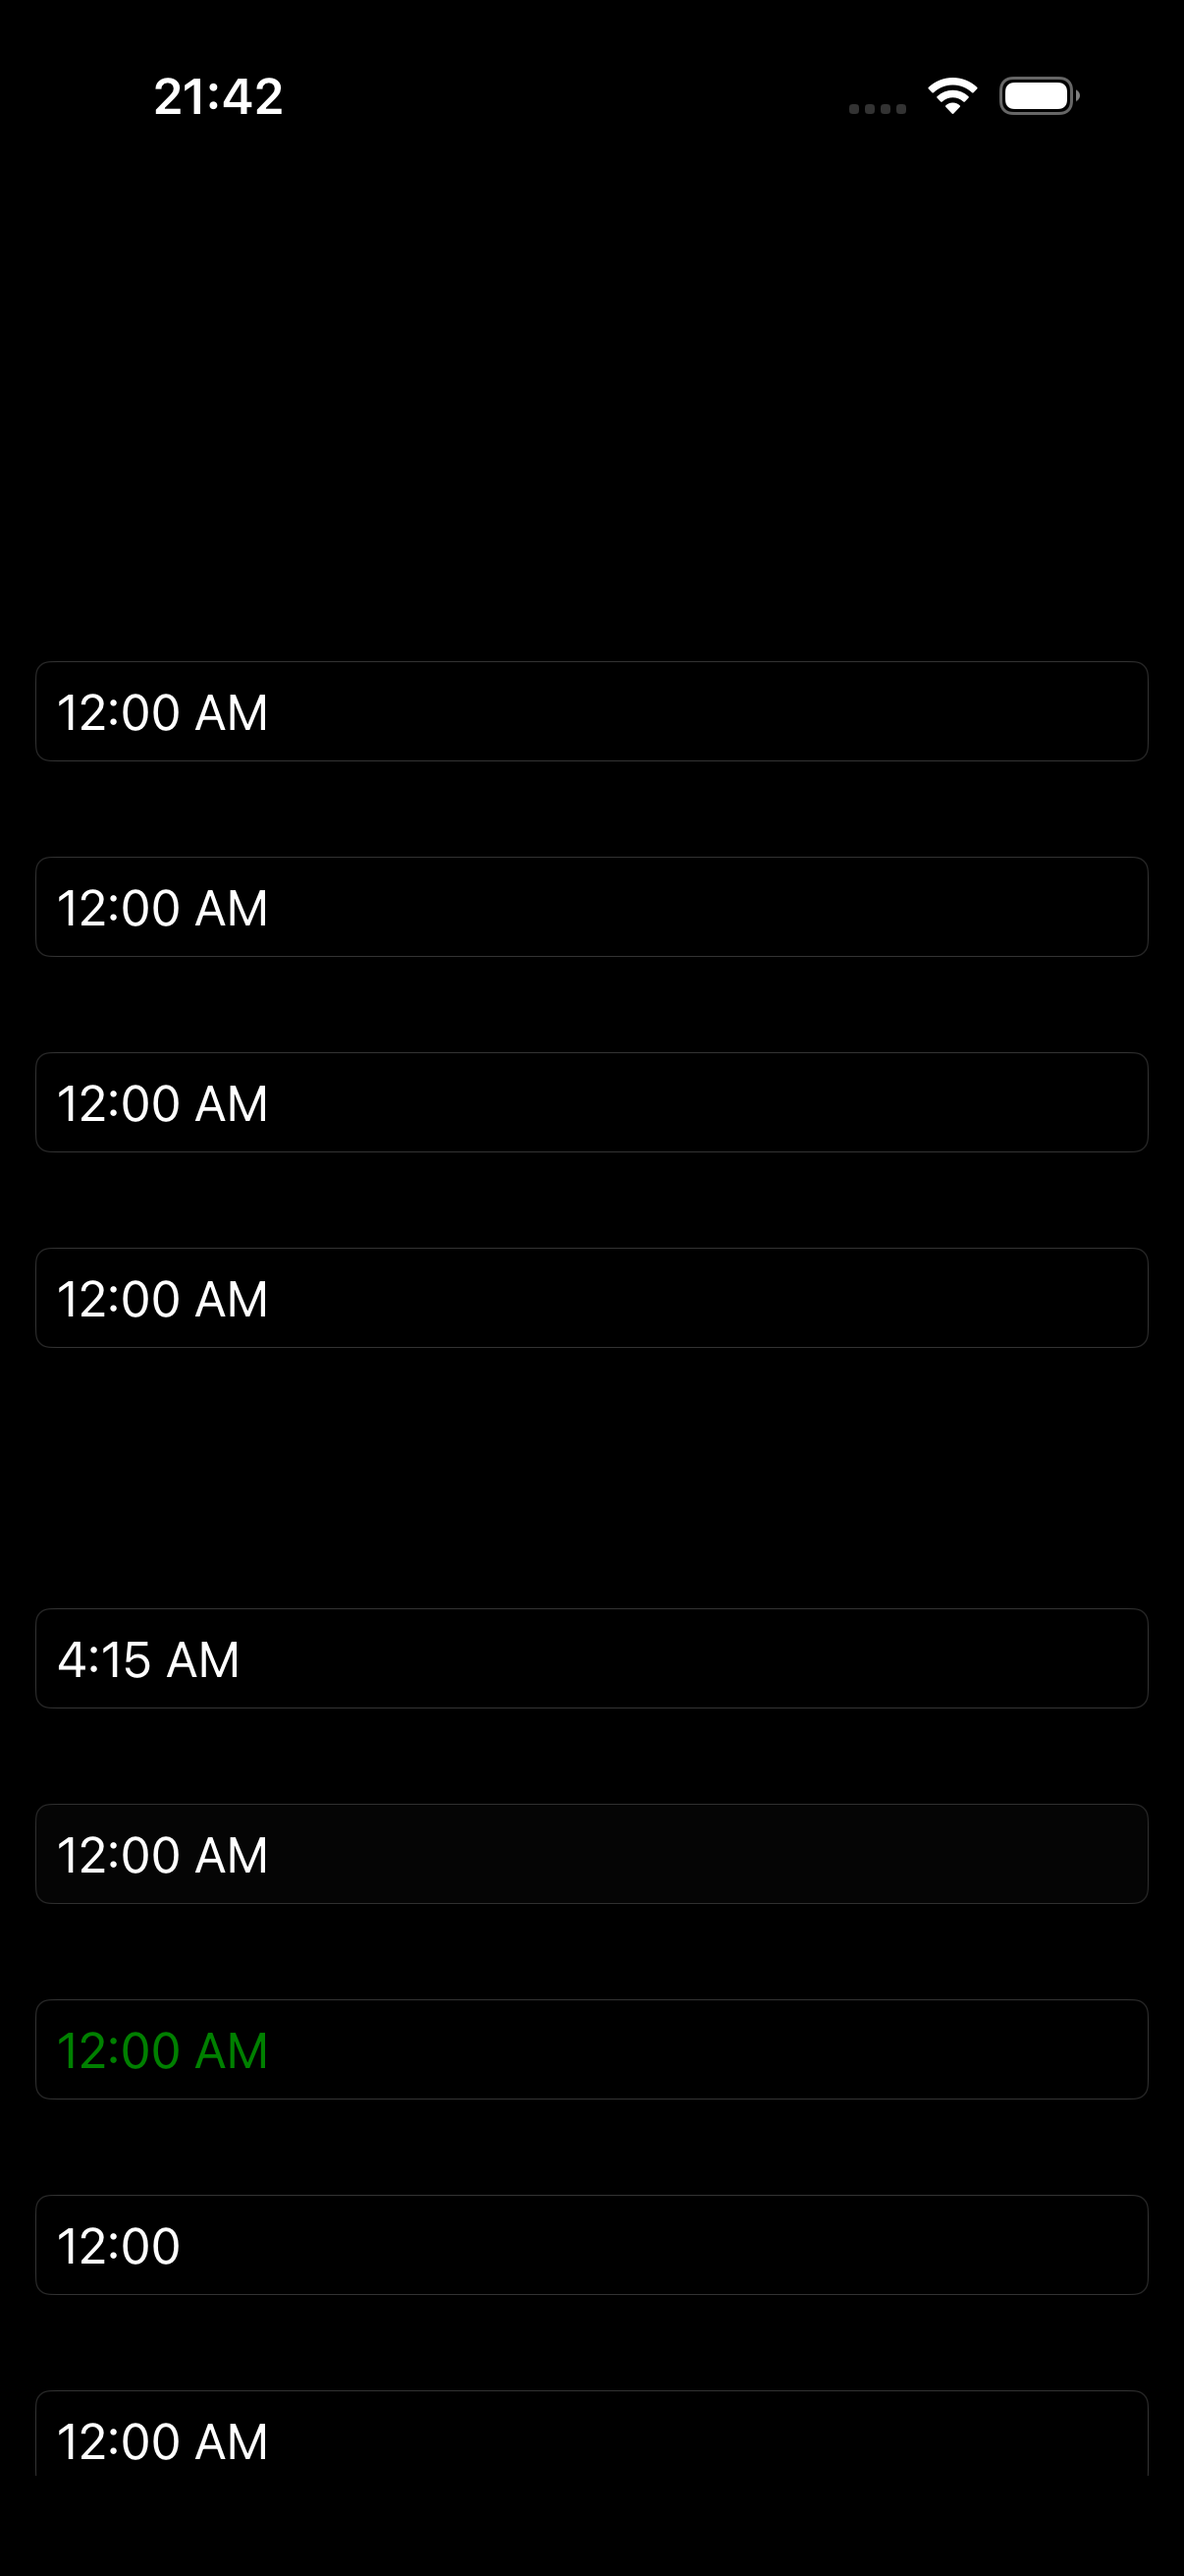
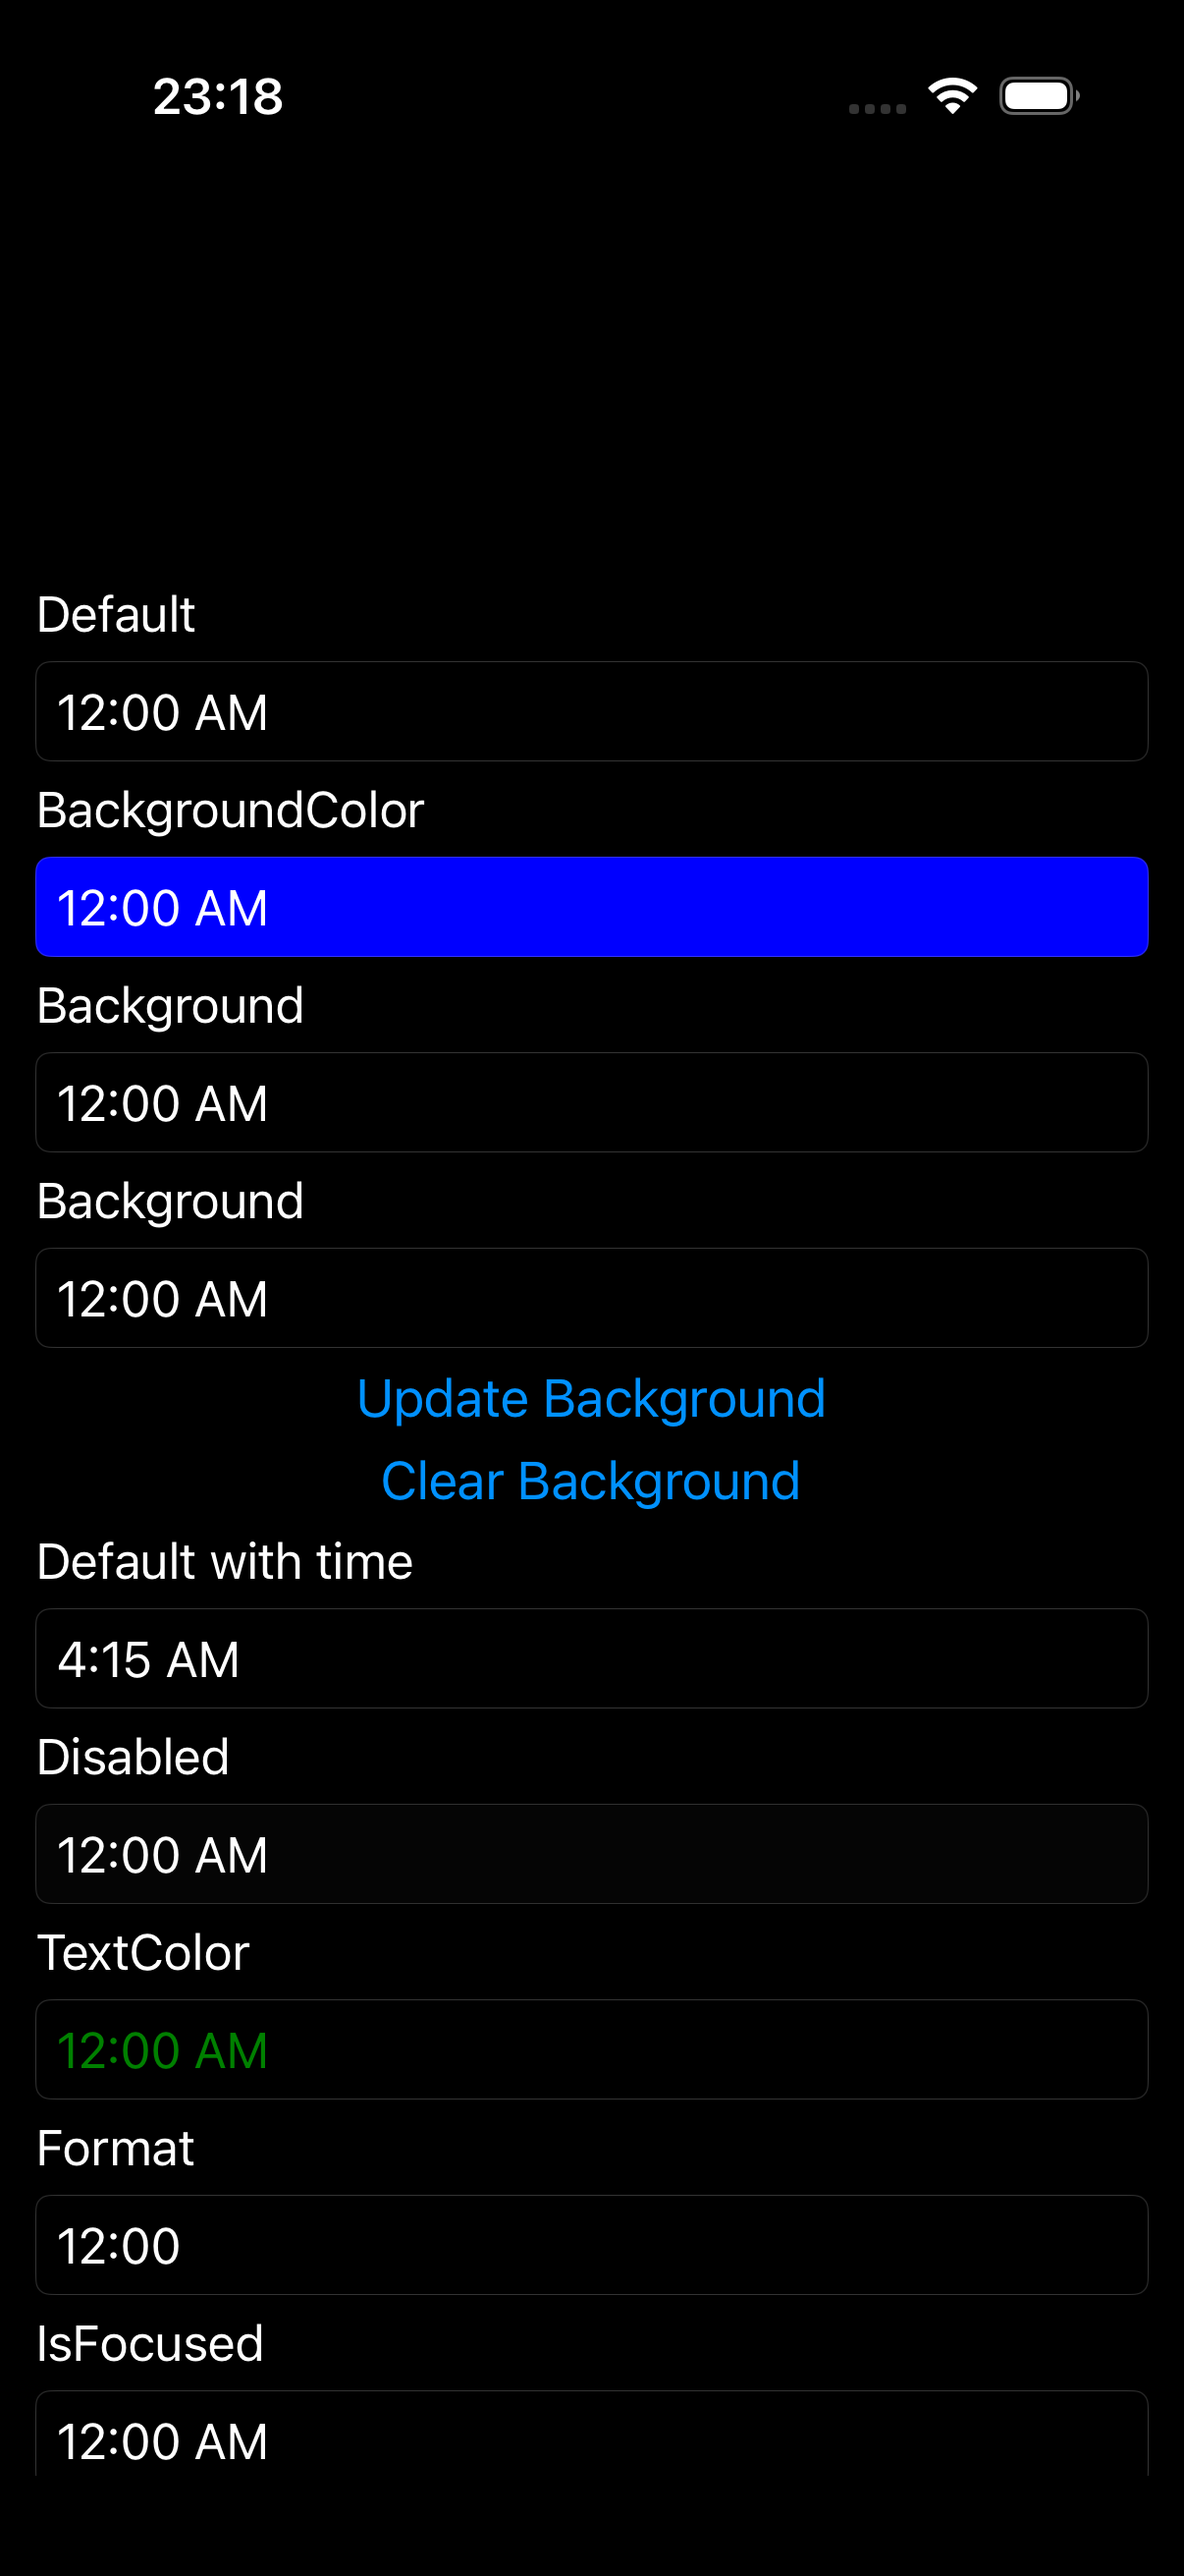
fix(ios,parity): TimePicker pushes solid BackgroundColor to the UITextField (flat fill)
example 8/172 (time_picker): the third sibling MauiPicker/UITextField — iOS
time_picker_platform omitted update_background, so BackgroundColor=Blue rendered
no fill. Now overridden, mirroring picker/date_picker: solid -> UITextField
backgroundColor property (flat fill, RoundedRect bezel suppressed, matching MAUI);
gradient/image -> apply_background; null clears. Re-captured the blank C# light ref.

Documented residuals (page stays diff): 2 gradient Background fills still missing
(shared gradient-layer-resize gap, task_3b94b991); time text is invariant US 12h
'12:00 AM' (deliberate deviation w/ tests) vs MAUI device-locale 24h '0:00'.

diff --git a/port/cpp/src/platform/ios/time_picker_handler.mm b/port/cpp/src/platform/ios/time_picker_handler.mm
@@ -31,6 +31,7 @@
 #include "ios_conversions.hpp"
 #include "ios_done_accessory.hpp"
 #include "ios_text_ops.hpp"
+#include "ios_visual_ops.hpp"
 #include "maui/core/date_time.hpp"
 #include "maui/core/i_time_picker.hpp"
 #include "maui/core/time_picker_handler.hpp"
@@ -39,6 +40,7 @@
 #include "maui/graphics/color.hpp"
 #include "maui/graphics/rect.hpp"
 #include "maui/graphics/size.hpp"
+#include "maui/graphics/solid_paint.hpp"
 
 // Obj-C trampoline for the Done accessory tap — MauiTimePicker's dateSelected callback feeding
 // SetVirtualViewTime.
@@ -180,6 +182,28 @@ namespace maui::core
         const std::string id(value);
         NSString* const raw = [NSString stringWithUTF8String:id.c_str()];
         as_field(native).accessibilityIdentifier = raw != nil ? raw : @"";
+    }
+
+    void time_picker_platform::update_background(const maui::graphics::paint* value)
+    {
+        // The MauiTimePicker is a RoundedRect UITextField. A solid BackgroundColor must go to the UIView
+        // backgroundColor PROPERTY (not the backing layer): the rounded-rect bezel is drawn over a layer
+        // fill (peeking only at the corners), whereas the view property suppresses the bezel and fills the
+        // field flat — matching MAUI's solid fill. Gradient/image paints use the shared layer machinery;
+        // a null paint clears the override back to the system default.
+        UITextField* const field = as_field(native);
+        if (const auto* const solid = dynamic_cast<const maui::graphics::solid_paint*>(value))
+        {
+            field.backgroundColor = maui::platform::ios::to_ui_color(solid->color());
+        }
+        else if (value != nullptr)
+        {
+            maui::platform::ios::apply_background(native, value);
+        }
+        else
+        {
+            field.backgroundColor = nil;
+        }
     }
 
     std::unique_ptr<time_picker_platform> time_picker_handler::create_platform_view()

diff --git a/port/cpp/include/maui/core/time_picker_handler.hpp b/port/cpp/include/maui/core/time_picker_handler.hpp
@@ -76,6 +76,10 @@ namespace maui::core
         void update_opacity(double value) override;
         void update_is_enabled(bool value) override;
         void update_automation_id(std::string_view value) override;
+        // BackgroundColor IS pushed to the MauiTimePicker (a RoundedRect UITextField): a solid fill goes to
+        // the UIView backgroundColor property (flat fill, bezel suppressed, like MAUI); gradient/image use
+        // the shared backing-layer helper. Mirrors the picker/date_picker handlers' update_background.
+        void update_background(const maui::graphics::paint* value) override;
 #endif
     };
 

diff --git a/port/cpp/docs/comparison/README.md b/port/cpp/docs/comparison/README.md
@@ -2,7 +2,7 @@
 
 Theme-matched iOS comparison: each page rendered by **real .NET MAUI** vs the **C++ port**, on the same iPhone 17 simulator, compared **light-vs-light** and **dark-vs-dark**. Both stacks render native-default controls + the system font (the C# app's `dotnet new maui` default `Styles.xaml` + OpenSans are stripped; appearance forced via `MAUI_THEME` / `MAUI_APPEARANCE`). Goal: pixel-perfect parity, fixed example-by-example.
 
-**Progress: 0 / 172 🟢 matched** · 6 🟡 minor · 57 🔴 diff · 109 ⬜ pending
+**Progress: 0 / 172 🟢 matched** · 6 🟡 minor · 58 🔴 diff · 108 ⬜ pending
 
 Status legend: 🟢 pixel-match (both themes) · 🟡 minor diff · 🔴 notable diff to fix · ⬜ not yet reviewed. Per-theme verdicts in `parity_status.json`.
 
@@ -19,7 +19,7 @@ Rows are in **fix order** (top → bottom): foundational single controls first (
 | 5 | Search Bar | 🟡<br>L:minor<br>D:minor | ![](csharp_ios_light/search_bar.png) | ![](cpp_ios_light/search_bar.png) | ![](csharp_ios_dark/search_bar.png) | ![](cpp_ios_dark/search_bar.png) |
 | 6 | Picker | 🟡<br>L:minor<br>D:minor | ![](csharp_ios_light/picker.png) | ![](cpp_ios_light/picker.png) | ![](csharp_ios_dark/picker.png) | ![](cpp_ios_dark/picker.png) |
 | 7 | Date Picker | 🔴<br>L:diff<br>D:diff | ![](csharp_ios_light/date_picker.png) | ![](cpp_ios_light/date_picker.png) | ![](csharp_ios_dark/date_picker.png) | ![](cpp_ios_dark/date_picker.png) |
-| 8 | Time Picker | ⬜<br>L:pending<br>D:pending | ![](csharp_ios_light/time_picker.png) | ![](cpp_ios_light/time_picker.png) | ![](csharp_ios_dark/time_picker.png) | ![](cpp_ios_dark/time_picker.png) |
+| 8 | Time Picker | 🔴<br>L:diff<br>D:diff | ![](csharp_ios_light/time_picker.png) | ![](cpp_ios_light/time_picker.png) | ![](csharp_ios_dark/time_picker.png) | ![](cpp_ios_dark/time_picker.png) |
 | 9 | Pickers | ⬜<br>L:pending<br>D:pending | ![](csharp_ios_light/pickers.png) | ![](cpp_ios_light/pickers.png) | ![](csharp_ios_dark/pickers.png) | ![](cpp_ios_dark/pickers.png) |
 | 10 | Slider | 🔴<br>L:diff<br>D:diff | ![](csharp_ios_light/slider.png) | ![](cpp_ios_light/slider.png) | ![](csharp_ios_dark/slider.png) | ![](cpp_ios_dark/slider.png) |
 | 11 | Stepper | 🔴<br>L:diff<br>D:diff | ![](csharp_ios_light/stepper.png) | ![](cpp_ios_light/stepper.png) | ![](csharp_ios_dark/stepper.png) | ![](cpp_ios_dark/stepper.png) |
